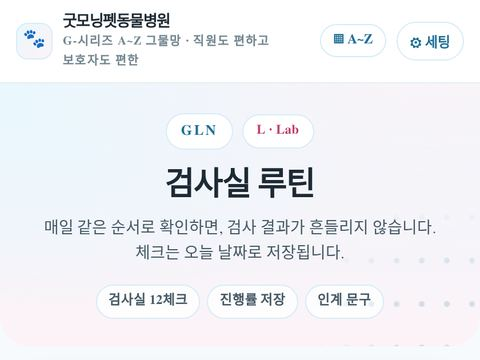
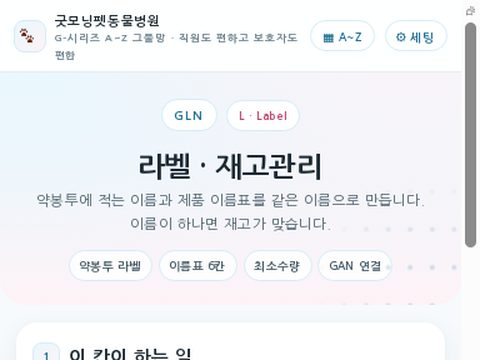
GLN: 범용 카드(g-tips) 라벨·재고로 갱신, 벌집 미리보기 이미지 교체

diff --git a/assets/g-tips.js b/assets/g-tips.js
@@ -95,13 +95,13 @@ var GTIPS = (function () {
          '식전·식후와 함께 피해야 할 것(우유·다른 약·공복)을 한 줄로 붙이세요. 복약 문의의 절반은 이 한 줄로 줄어듭니다.',
          '보호자가 먹이는 상비약(사람 약 포함)을 목록으로 받아 두고, 처방할 때 중복·금기만 확인해 표시해 주세요.'] },
 
-    { code:'GLN', letter:'L', eng:'Lab', ko:'검사루틴', short:'검사루틴', program:'검사실 12단계 루틴', cat:'clinic', tint:'clinic', href:'gln.html',
-      f:'검사실 12단계를 날짜별로 체크해 인계 문구까지 남기는 검사실 루틴표입니다.',
-      k:['#12단계','#날짜별저장','#인계'],
-      b:['12단계 체크가 날짜별로 저장돼 인계가 정확합니다.','검사가 같은 순서로 진행돼 기다림이 짧습니다.','빠뜨린 단계가 없어 재검·클레임이 줄어듭니다.'],
-      t:['단계 이름을 우리 병원 장비·동선에 맞게 다시 쓰세요. 남의 병원 순서를 그대로 쓰면 아무도 보지 않습니다.',
-         '체크는 결과가 나온 뒤가 아니라 그 자리에서 하세요. 하루 끝에 몰아 체크하면 빠진 단계를 찾을 수 없습니다.',
-         '미완료 항목을 포함해 인계 문구를 복사해 두면 다음 근무자가 “어디까지 했는지” 묻지 않아도 됩니다.'] },
+    { code:'GLN', letter:'L', eng:'Label', ko:'라벨·재고', short:'라벨재고', program:'라벨·이름 붙이기(재고관리 시작)', cat:'admin', tint:'stock', href:'gln.html',
+      f:'약봉투 라벨과 품목 이름표 6칸을 만들고, 사입·판매 이름을 하나로 붙이는 재고관리 첫 단계입니다.',
+      k:['#약봉투라벨','#이름표6칸','#최소수량'],
+      b:['약봉투 라벨과 품목 이름표 6칸이 그 자리에서 만들어집니다.','약 이름과 용법이 봉투에 적혀 헷갈리지 않습니다.','이름이 하나로 붙어 재고·발주가 비로소 맞습니다.'],
+      t:['재고를 세기 전에 이름부터 정하세요. 사입 명세서·전산·진열 이름이 갈라져 있으면 수량을 세도 맞지 않습니다. 재고관리는 라벨(이름 붙이기) → 사입·정산(GAN) 순서로 갑니다.',
+         '이름표는 라벨에 인쇄된 이름 그대로 적고 최소수량을 꼭 채우세요. 이 숫자가 있으면 “주문할까요?”를 묻지 않아도 됩니다(3개월 판매량 ÷ 13주 × 배송 소요 주수, 올림).',
+         '약봉투에는 약 이름·1일 횟수·식전식후·주의 한 줄을 적고, 봉투 하단에 조제일을 남기세요. 검사실 12단계 루틴은 자리 지도(GPN)로 옮겼습니다.'] },
 
     { code:'GMN', letter:'M', eng:'Manual', ko:'온보딩', short:'온보딩', program:'신규 직원 매뉴얼·온보딩', cat:'admin', tint:'admin', href:'gmn.html',
       f:'신규 직원 첫 주 12단계를 이름별로 체크하고 저장하는 온보딩 도구입니다.',

diff --git a/net.html b/net.html
@@ -441,7 +441,7 @@ html.sheet-open body{overflow:hidden}
 </section>
 
 <script src="assets/g-common.js?v=20261128d"></script>
-<script src="assets/g-tips.js?v=20261128a"></script>
+<script src="assets/g-tips.js?v=20261128b"></script>
 <script>
 (function () {
   var $ = G.q;

diff --git a/tips.html b/tips.html
@@ -165,7 +165,7 @@
 </div>
 
 <script src="assets/g-common.js?v=20261128d"></script>
-<script src="assets/g-tips.js?v=20261128a"></script>
+<script src="assets/g-tips.js?v=20261128b"></script>
 <script>
 (function () {
   var $ = G.q;
